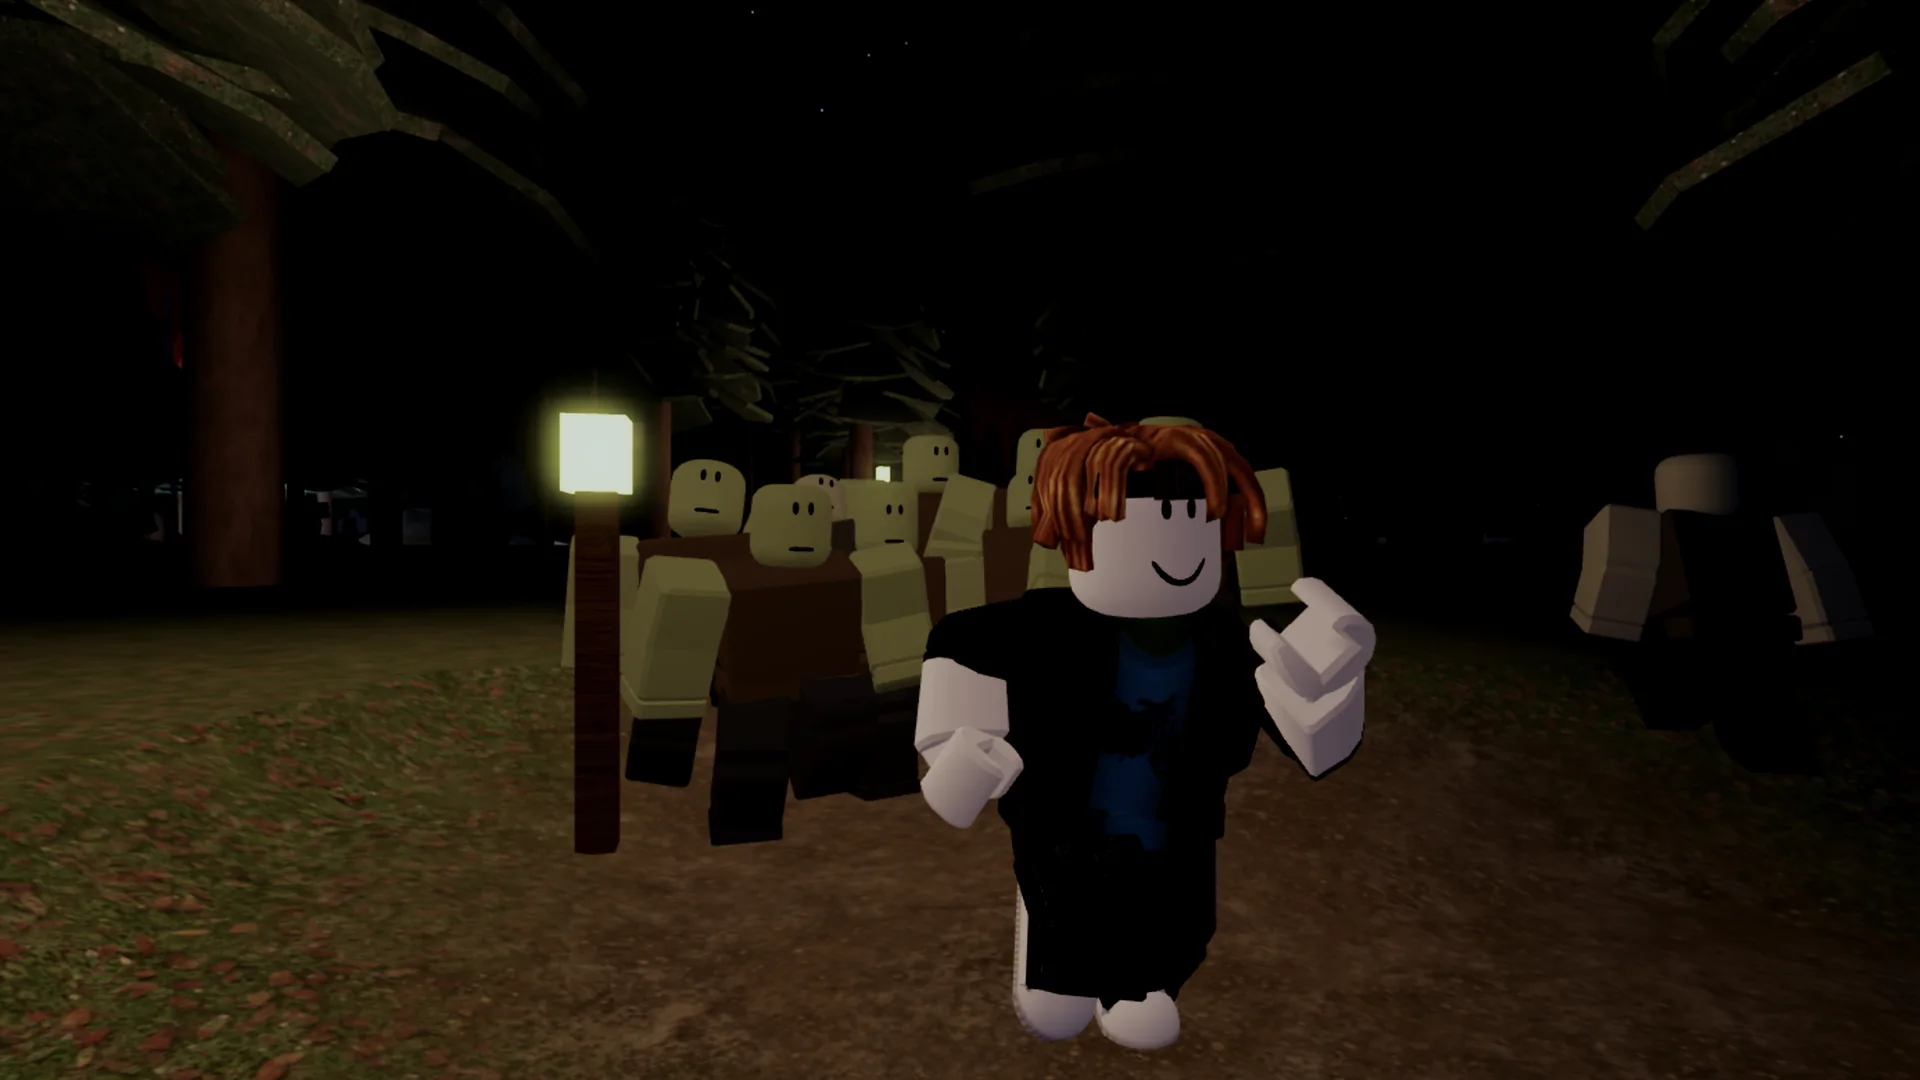
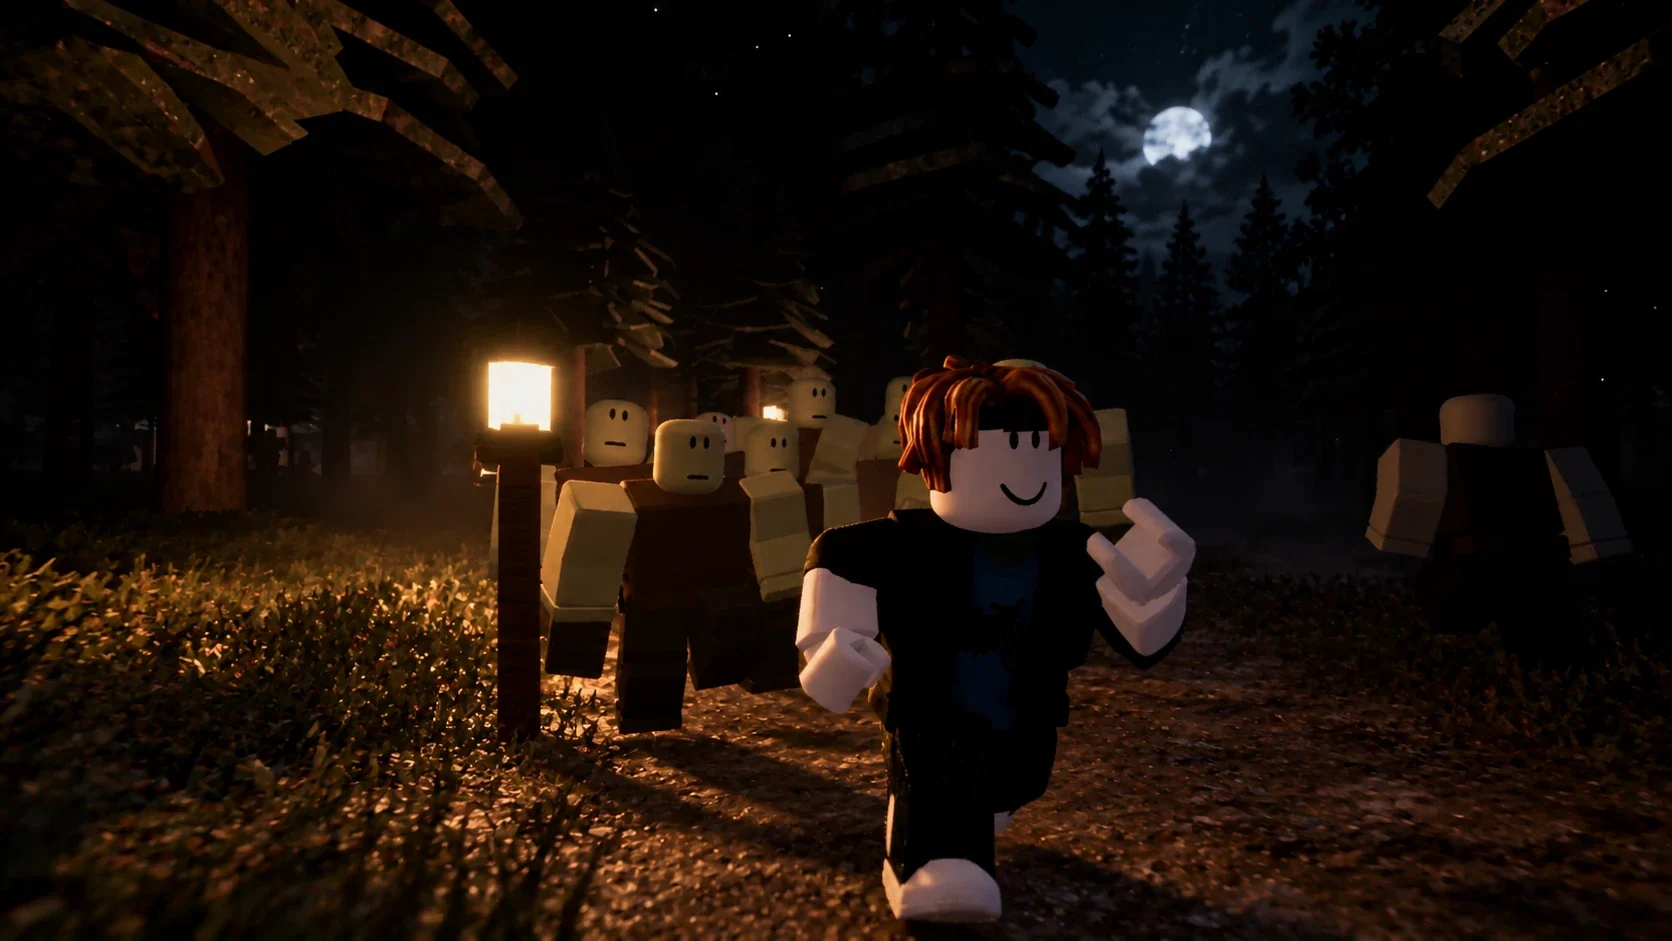
Stillskin Forest: replace screenshots with five new images
Night chase, campgrounds, hospital, Blackthorn Asylum and Green Lake get the owner-supplied images; the game page gallery is now these five. Thumbnails, hero and share images unchanged.

diff --git a/src/data/games/stillskin-forest/media.ts b/src/data/games/stillskin-forest/media.ts
@@ -78,18 +78,18 @@ export const stillskinMedia: MediaAsset[] = [
   asset("stillskin-forest-cover", "branding", "/games/stillskin-forest", "Game cover artwork", "Stillskin Forest cover art", "P1", "Portrait cover composition with room for the title at the top.", { use: "cover", dimensions: { width: 1200, height: 1600 }, aspectRatio: "3:4" }),
   asset("stillskin-forest-gameplay-overview", "branding", "/games/stillskin-forest", "Wide gameplay overview", "A survivor scavenging a Stillwater street by day", "P1", `Third-person, mid-day, a survivor looting with the town behind. ${NO_UI}`),
   asset("stillskin-forest-team-survival", "branding", "/games/stillskin-forest/wiki/multiplayer/co-op-survival", "Cooperative survivors", "Four survivors holding a doorway together at night", "P1", "Squad of 3–4 players covering each other at night. Needs real players or test accounts."),
-  asset("stillskin-forest-night-chase", "branding", "/games/stillskin-forest", "Infected pursuit", "A survivor sprinting from infected through the forest at night", "P0", `Over-the-shoulder chase at night with 2–3 infected visible. ${NO_UI}`),
+  asset("stillskin-forest-night-chase", "branding", "/games/stillskin-forest", "Infected pursuit", "A survivor runs from a crowd of infected along a lantern-lit forest trail at night", "P0", `Over-the-shoulder chase at night with 2–3 infected visible. ${NO_UI}`),
   asset("stillskin-forest-trailer-poster", "branding", "/games/stillskin-forest", "Trailer thumbnail", "Stillskin Forest trailer poster", "P2", "Only needed once a trailer exists.", { use: "trailer-poster" }),
 
   // Locations
-  asset("stillskin-forest-campgrounds", "locations", "campgrounds", "Main campground", "Cabins around the campground lake in Stillskin Forest", "P0", `Cabins reflected across the lake at dusk. ${NO_UI}`),
+  asset("stillskin-forest-campgrounds", "locations", "campgrounds", "Main campground", "A log cabin across the campground lake at night, with infected at the shoreline in Stillskin Forest", "P0", `Cabins reflected across the lake at dusk. ${NO_UI}`),
   asset("stillskin-forest-daytime", "locations", "day-night-cycle", "Peaceful forest in daylight", "Sunlit pine forest in Stillskin Forest", "P1", "Mid-morning, Day 1 lighting."),
   asset("stillskin-forest-nighttime", "locations", "day-night-cycle", "Forest at night", "Moonlit pine forest at night in Stillskin Forest", "P1", "Same framing as the daytime shot, at night, headlamp off."),
   asset("stillskin-forest-cabins", "locations", "campgrounds", "Cabin area", "Wooden camping cabins in the Stillskin Forest campground", "P2", "Close on the cabin row."),
   asset("stillskin-forest-trails", "locations", "forest-trail", "Forest trails", "The lantern-lit forest trail toward Stillwater", "P1", "Trail with lanterns and the signpost."),
   asset("stillskin-forest-stillwater", "locations", "stillwater", "Stillwater town overview", "Main Street in the abandoned town of Stillwater", "P0", `Elevated view down Main Street, wrecks and streetlights visible. ${NO_UI}`),
   asset("stillskin-forest-welcome-sign", "locations", "stillwater", "Welcome to Stillwater sign", "The Welcome to Stillwater sign with the population crossed out to zero", "P2", "Close on the sign."),
-  asset("stillskin-forest-hospital", "locations", "st-agnes-hospital", "St. Agnes Hospital", "St. Agnes Hospital and an abandoned ambulance", "P0", "Hospital entrance with the ER canopy and ambulance."),
+  asset("stillskin-forest-hospital", "locations", "st-agnes-hospital", "St. Agnes Hospital", "An ambulance with its doors open outside St. Agnes Hospital as infected close in at night", "P0", "Hospital entrance with the ER canopy and ambulance."),
   asset("stillskin-forest-morgue", "locations", "morgue", "Morgue", "The drawer wall and autopsy tables in the St. Agnes morgue", "P1", "Inside the morgue, drawer wall in frame.", { liveAvailability: "secret" }),
   asset("stillskin-forest-freezer", "locations", "pine-general-store", "Walk-in freezer", "Meat hooks in the walk-in freezer behind the general store", "P2", "Inside the freezer.", { liveAvailability: "secret" }),
   asset("stillskin-forest-diner", "locations", "rosies-diner", "Rosie's Diner", "The exterior of Rosie's Diner in Stillwater", "P1", "Exterior with neon sign at dusk."),
@@ -102,14 +102,14 @@ export const stillskinMedia: MediaAsset[] = [
   asset("stillskin-forest-memorial-park", "locations", "memorial-park", "Memorial Park", "The playground in Memorial Park, Stillwater", "P1", "Playground, picnic tables and fountain."),
   asset("stillskin-forest-police-car", "locations", "stillwater", "Police car", "A police roadblock with flashing lights at the edge of Stillwater", "P2", "Roadblock at night with lights on."),
   asset("stillskin-forest-wrecked-vehicles", "locations", "stillwater", "Wrecked vehicles", "Burning car wrecks on a Stillwater street", "P2", "Burning wrecks at night."),
-  asset("stillskin-forest-blackthorn-asylum", "locations", "blackthorn-asylum", "Asylum exterior", "Blackthorn Asylum at the top of the hill", "P0", "Asylum front with the green lamp over the doors."),
+  asset("stillskin-forest-blackthorn-asylum", "locations", "blackthorn-asylum", "Asylum exterior", "Infected at the windows and in the grass outside Blackthorn Asylum under a full moon", "P0", "Asylum front with the green lamp over the doors."),
   asset("stillskin-forest-asylum-interior", "locations", "blackthorn-asylum", "Asylum interior", "The admissions hall inside Blackthorn Asylum", "P1", "Admissions hall and stairs."),
   asset("stillskin-forest-graveyard", "locations", "graveyard", "Graveyard", "The Blackthorn graveyard and its angel statue", "P1", "Angel statue in frame."),
   asset("stillskin-forest-chapel", "locations", "chapel", "Chapel", "The chapel beside the Blackthorn graveyard", "P1", "Chapel exterior."),
   asset("stillskin-forest-crypt-cave", "locations", "crypt-cave", "Crypt cave", "The green-lit chamber at the bottom of the crypt cave", "P1", "Green-lit chamber.", { spoiler: true }),
   asset("stillskin-forest-ritual-circle", "quests", "the-rite-of-stillness", "Ritual circle", "The ritual circle in the Blackthorn cafeteria", "P1", "Cafeteria circle with candles.", { spoiler: true }),
   asset("stillskin-forest-hollow", "locations", "the-hollow", "Hollow environment", "Green crystals lighting the Weeping Gallery underground", "P1", "Weeping Gallery and chasm.", { spoiler: true }),
-  asset("stillskin-forest-green-lake", "locations", "green-lake", "Green Lake", "Green Lake below Blackthorn Asylum", "P0", "Lake with the asylum above, fog and green water."),
+  asset("stillskin-forest-green-lake", "locations", "green-lake", "Green Lake", "Blackthorn Asylum above Green Lake at night, with infected along the fence", "P0", "Lake with the asylum above, fog and green water."),
   asset("stillskin-forest-green-lake-dock", "locations", "green-lake", "Sampling dock", "The abandoned sampling dock on Green Lake", "P2", "Dock and condemned-water sign."),
   asset("stillskin-forest-green-lake-drain", "locations", "green-lake", "Asylum drainage outlet", "The corroded asylum drain outlet at Green Lake", "P2", "Drain outlet.", { spoiler: true }),
 

diff --git a/src/data/games/stillskin-forest/captured.ts b/src/data/games/stillskin-forest/captured.ts
@@ -4,8 +4,8 @@ import type { MediaAsset } from "@/data/games/types";
  * Captures delivered by the capture session. Generated by
  * scripts/import-game-captures.mjs from
  * docs/games-platform/stillskin-forest/capture-delivery/stillskin-forest-assets.json
- * (2026-10-26). Real in-game renders; night shots carry a client-side
- * exposure lift, which their descriptions disclose. Do not edit by hand.
+ * (2026-10-26). Real in-game renders unless the source says owner-supplied; night
+ * shots with a client-side exposure lift say so in their descriptions. Do not edit by hand.
  */
 
 /** Overrides for ids already declared in media.ts. */
@@ -33,14 +33,14 @@ export const capturedAssets: Record<string, Partial<MediaAsset>> = {
     "src": "/games/stillskin-forest/branding/stillskin-forest-icon.webp"
   },
   "stillskin-forest-campgrounds": {
-    "description": "Main campground. Campground lake, dock and cabin, daylight (not dusk).",
+    "description": "Main campground. A log cabin across the campground lake at night, dock and lanterns lit, infected at the shoreline. Owner-supplied image (2026-10-27).",
     "dimensions": {
-      "width": 1920,
-      "height": 1080
+      "width": 1672,
+      "height": 941
     },
     "aspectRatio": "16:9",
     "status": "optimized",
-    "source": "masters/_rejected/_tests/test-campgrounds.png",
+    "source": "owner-supplied image, 1672x941 (2026-10-27)",
     "src": "/games/stillskin-forest/locations/stillskin-forest-campgrounds.webp"
   },
   "stillskin-forest-stillwater": {
@@ -55,36 +55,36 @@ export const capturedAssets: Record<string, Partial<MediaAsset>> = {
     "src": "/games/stillskin-forest/locations/stillskin-forest-stillwater.webp"
   },
   "stillskin-forest-hospital": {
-    "description": "St. Agnes Hospital. St. Agnes Hospital exterior with ambulance.",
+    "description": "St. Agnes Hospital. Hospital exterior at night with the ambulance doors open under the Emergency sign, infected closing in. Owner-supplied image (2026-10-27).",
     "dimensions": {
-      "width": 1920,
-      "height": 1080
+      "width": 1672,
+      "height": 941
     },
     "aspectRatio": "16:9",
     "status": "optimized",
-    "source": "masters/locations/stillskin-forest-hospital__a.png",
+    "source": "owner-supplied image, 1672x941 (2026-10-27)",
     "src": "/games/stillskin-forest/locations/stillskin-forest-hospital.webp"
   },
   "stillskin-forest-blackthorn-asylum": {
-    "description": "Asylum exterior. Asylum facade by day; a night version is still outstanding.",
+    "description": "Asylum exterior. Blackthorn Asylum at night under a full moon, infected at the lit windows and in the grass. Owner-supplied image (2026-10-27).",
     "dimensions": {
-      "width": 1920,
-      "height": 1080
+      "width": 1672,
+      "height": 941
     },
     "aspectRatio": "16:9",
     "status": "optimized",
-    "source": "masters/locations/stillskin-forest-blackthorn-asylum__day-a.png",
+    "source": "owner-supplied image, 1672x941 (2026-10-27)",
     "src": "/games/stillskin-forest/locations/stillskin-forest-blackthorn-asylum.webp"
   },
   "stillskin-forest-green-lake": {
-    "description": "Green Lake. Same master as the thumbnail, cropped lower and to the lake.",
+    "description": "Green Lake. Blackthorn Asylum above the fenced lake basin at night, infected along the fence and green gate lamps lit. Owner-supplied image (2026-10-27).",
     "dimensions": {
-      "width": 1920,
-      "height": 1080
+      "width": 1672,
+      "height": 941
     },
     "aspectRatio": "16:9",
     "status": "optimized",
-    "source": "masters/locations/stillskin-forest-green-lake__day-a.png",
+    "source": "owner-supplied image, 1672x941 (2026-10-27)",
     "src": "/games/stillskin-forest/locations/stillskin-forest-green-lake.webp"
   },
   "stillskin-forest-walker": {
@@ -143,14 +143,14 @@ export const capturedAssets: Record<string, Partial<MediaAsset>> = {
     "src": "/games/stillskin-forest/mechanics/stillskin-forest-locker-hiding.webp"
   },
   "stillskin-forest-night-chase": {
-    "description": "Infected pursuit. Night exposure lifted +1.4 EV for legibility.",
+    "description": "Infected pursuit. A survivor runs from a crowd of infected along a lantern-lit forest trail at night. Owner-supplied image (2026-10-27).",
     "dimensions": {
-      "width": 1920,
-      "height": 1080
+      "width": 1672,
+      "height": 941
     },
     "aspectRatio": "16:9",
     "status": "optimized",
-    "source": "masters/branding/nchase-10.png",
+    "source": "owner-supplied image, 1672x941 (2026-10-27)",
     "src": "/games/stillskin-forest/branding/stillskin-forest-night-chase.webp"
   },
   "stillskin-forest-blood-moon": {

diff --git a/src/data/games/stillskin-forest/game.ts b/src/data/games/stillskin-forest/game.ts
@@ -69,11 +69,9 @@ export const stillskinForest: Game = {
     screenshots: [
       "stillskin-forest-night-chase",
       "stillskin-forest-campgrounds",
-      "stillskin-forest-stillwater",
       "stillskin-forest-hospital",
       "stillskin-forest-blackthorn-asylum",
       "stillskin-forest-green-lake",
-      "stillskin-forest-locker-hiding",
     ],
     hero: "stillskin-forest-hero",
     thumbnail: "stillskin-forest-thumbnail",

diff --git a/docs/games-platform/stillskin-forest/SCREENSHOT-CHECKLIST.md b/docs/games-platform/stillskin-forest/SCREENSHOT-CHECKLIST.md
@@ -8,15 +8,15 @@ Total: 99 · P0: 13 · captured: 77
 
 | Done | Priority | File | Path | Size | Target page | Spoiler | In build | What to capture | Alt text |
 |---|---|---|---|---|---|---|---|---|---|
-| ☑ | P0 | `stillskin-forest-blackthorn-asylum.webp` | `public/games/stillskin-forest/locations/stillskin-forest-blackthorn-asylum.webp` | 1920×1080 (16:9) | `/games/stillskin-forest/wiki/locations/blackthorn-asylum` | no | live | Asylum front with the green lamp over the doors. | Blackthorn Asylum at the top of the hill |
-| ☑ | P0 | `stillskin-forest-campgrounds.webp` | `public/games/stillskin-forest/locations/stillskin-forest-campgrounds.webp` | 1920×1080 (16:9) | `/games/stillskin-forest/wiki/locations/campgrounds` | no | live | Cabins reflected across the lake at dusk. Hide all HUD and development UI. | Cabins around the campground lake in Stillskin Forest |
+| ☑ | P0 | `stillskin-forest-blackthorn-asylum.webp` | `public/games/stillskin-forest/locations/stillskin-forest-blackthorn-asylum.webp` | 1672×941 (16:9) | `/games/stillskin-forest/wiki/locations/blackthorn-asylum` | no | live | Asylum front with the green lamp over the doors. | Infected at the windows and in the grass outside Blackthorn Asylum under a full moon |
+| ☑ | P0 | `stillskin-forest-campgrounds.webp` | `public/games/stillskin-forest/locations/stillskin-forest-campgrounds.webp` | 1672×941 (16:9) | `/games/stillskin-forest/wiki/locations/campgrounds` | no | live | Cabins reflected across the lake at dusk. Hide all HUD and development UI. | A log cabin across the campground lake at night, with infected at the shoreline in Stillskin Forest |
 | ☑ | P0 | `stillskin-forest-dread-encounter.webp` | `public/games/stillskin-forest/mechanics/stillskin-forest-dread-encounter.webp` | 1920×1080 (16:9) | `/games/stillskin-forest/wiki/mechanics/the-dread-encounter` | no | live | Infected walking up to the hide. | An infected approaching a locker during the Dread Encounter |
-| ☑ | P0 | `stillskin-forest-green-lake.webp` | `public/games/stillskin-forest/locations/stillskin-forest-green-lake.webp` | 1920×1080 (16:9) | `/games/stillskin-forest/wiki/locations/green-lake` | no | live | Lake with the asylum above, fog and green water. | Green Lake below Blackthorn Asylum |
+| ☑ | P0 | `stillskin-forest-green-lake.webp` | `public/games/stillskin-forest/locations/stillskin-forest-green-lake.webp` | 1672×941 (16:9) | `/games/stillskin-forest/wiki/locations/green-lake` | no | live | Lake with the asylum above, fog and green water. | Blackthorn Asylum above Green Lake at night, with infected along the fence |
 | ☑ | P0 | `stillskin-forest-hero.webp` | `public/games/stillskin-forest/branding/stillskin-forest-hero.webp` | 2560×1440 (16:9) | `/games/stillskin-forest` | no | live | Wide establishing shot at dusk with 2–4 survivors, headlamps on, forest and Stillwater rooftops in depth. Leave the left third darker for headline text. Hide all HUD and development UI. | Survivors with headlamps on a forest trail at dusk in Stillskin Forest |
-| ☑ | P0 | `stillskin-forest-hospital.webp` | `public/games/stillskin-forest/locations/stillskin-forest-hospital.webp` | 1920×1080 (16:9) | `/games/stillskin-forest/wiki/locations/st-agnes-hospital` | no | live | Hospital entrance with the ER canopy and ambulance. | St. Agnes Hospital and an abandoned ambulance |
+| ☑ | P0 | `stillskin-forest-hospital.webp` | `public/games/stillskin-forest/locations/stillskin-forest-hospital.webp` | 1672×941 (16:9) | `/games/stillskin-forest/wiki/locations/st-agnes-hospital` | no | live | Hospital entrance with the ER canopy and ambulance. | An ambulance with its doors open outside St. Agnes Hospital as infected close in at night |
 | ☑ | P0 | `stillskin-forest-icon.webp` | `public/games/stillskin-forest/branding/stillskin-forest-icon.webp` | 512×512 (1:1) | `/games` | no | live | Square crop of a single strong subject (an infected silhouette or the asylum). Must read at 64px. | Stillskin Forest game icon |
 | ☑ | P0 | `stillskin-forest-locker-hiding.webp` | `public/games/stillskin-forest/mechanics/stillskin-forest-locker-hiding.webp` | 1920×1080 (16:9) | `/games/stillskin-forest/wiki/mechanics/hiding` | no | live | Third-person entering a locker. | A survivor stepping into a hospital locker |
-| ☑ | P0 | `stillskin-forest-night-chase.webp` | `public/games/stillskin-forest/branding/stillskin-forest-night-chase.webp` | 1920×1080 (16:9) | `/games/stillskin-forest` | no | live | Over-the-shoulder chase at night with 2–3 infected visible. Hide all HUD and development UI. | A survivor sprinting from infected through the forest at night |
+| ☑ | P0 | `stillskin-forest-night-chase.webp` | `public/games/stillskin-forest/branding/stillskin-forest-night-chase.webp` | 1672×941 (16:9) | `/games/stillskin-forest` | no | live | Over-the-shoulder chase at night with 2–3 infected visible. Hide all HUD and development UI. | A survivor runs from a crowd of infected along a lantern-lit forest trail at night |
 | ☑ | P0 | `stillskin-forest-social.jpg` | `public/games/stillskin-forest/branding/stillskin-forest-social.jpg` | 1600×900 (16:9) | `/games/stillskin-forest` | no | live | Owner-supplied key art, exported as 1600×900 JPEG for social previews. | Stillskin Forest key art: the logo over a survivor with a headlamp facing infected outside Rosie's Diner under a full moon |
 | ☑ | P0 | `stillskin-forest-stillwater.webp` | `public/games/stillskin-forest/locations/stillskin-forest-stillwater.webp` | 1920×1080 (16:9) | `/games/stillskin-forest/wiki/locations/stillwater` | no | live | Elevated view down Main Street, wrecks and streetlights visible. Hide all HUD and development UI. | Main Street in the abandoned town of Stillwater |
 | ☑ | P0 | `stillskin-forest-thumbnail.webp` | `public/games/stillskin-forest/branding/stillskin-forest-thumbnail.webp` | 1920×1080 (16:9) | `/games` | no | live | Strongest single image of the game, readable at 400px wide. Hide all HUD and development UI. | Stillskin Forest key art: a survivor in a beanie aims at infected outside Rosie's Diner under a full moon |
